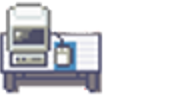
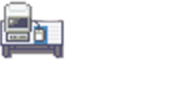
rescaled game

diff --git a/js/preload.js b/js/preload.js
@@ -4,7 +4,7 @@ TurboSnake.Preload = function() {};
 
 TurboSnake.Preload.prototype = {
     preload: function() {
-        this.load.spritesheet('snake', 'assets/snake.png', 48, 48);
+        this.load.spritesheet('snake', 'assets/snake.png', 30, 30);
         this.load.tilemap('map', 'assets/home.json', null, Phaser.Tilemap.TILED_JSON);
         this.load.image('tiles', 'assets/TilesSet.png');
         this.load.image('computer', 'assets/computer.png');

diff --git a/js/main.js b/js/main.js
@@ -1,6 +1,6 @@
 var TurboSnake = TurboSnake || {};
 
-TurboSnake.game = new Phaser.Game(16*48, 768, Phaser.AUTO, '');
+TurboSnake.game = new Phaser.Game(600, 450, Phaser.AUTO, '');
 
 var credit = 5000,
 	debt = 50000,

diff --git a/js/home.js b/js/home.js
@@ -9,7 +9,7 @@ TurboSnake.Home = function() {
 
         this.safetile = 1;
         this.gridsize = 16;
-        this.blocksize = 48;
+        this.blocksize = 30;
 };
 
 TurboSnake.Home.prototype = {
